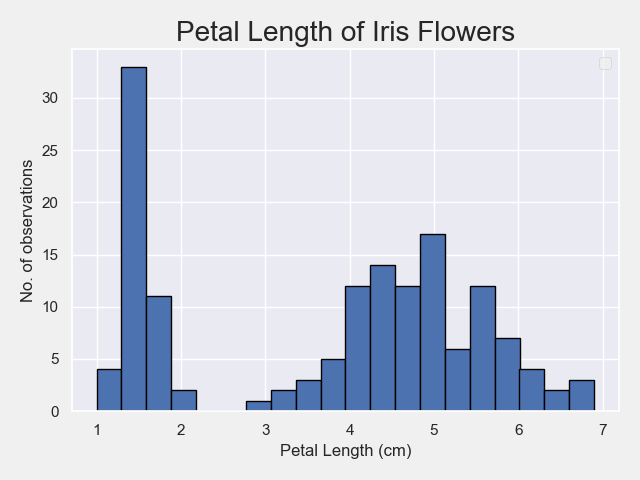
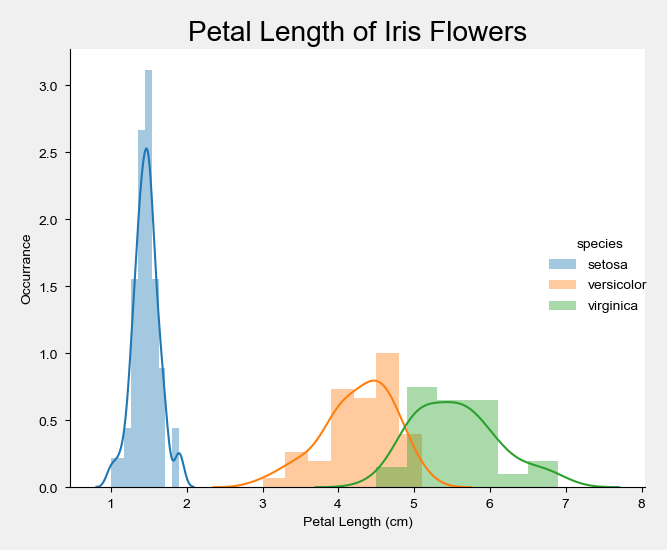
Scatter plots added to 'analysis.py', scatter plots and histogram format edited.

diff --git a/draft_analysis.py b/draft_analysis.py
@@ -9,84 +9,115 @@ import pandas as pd
 import numpy as np
 import seaborn as sns
 df = pd.read_csv('IrisDataset.csv')
-
-
-#-----------------------------------------------------------------------------
-
-# Histogram of Petal Length (all species)
-# Create hist with bin measures se t to bins list.
-PL = np.array( df['petal_length'])
-sns.set()
-plt.hist(PL, bins = 20, edgecolor='black')
-# Set the histrogram style.
-plt.style.use('fivethirtyeight')
-# Format the histogram as appropriate.
-plt.title("Petal Length of Iris Flowers")
-plt.xlabel('Petal Length (cm)')
-plt.ylabel('No. of observations')
-plt.tight_layout()
-# Mark out a median value line.
-# median_PL = 4.35
-# color = '#fc4f30'
-# plt.axvline(median_PL, color=color, label='Median Petal Length', linewidth=2.5)
-plt.savefig("Hpetal_length.png")
-plt.clf
-plt.show()
 #------------------------------------------------------------------------------
 
-# Histogram of Petal Width (all species)
+# Histogram of Petal Length (all species)
 # Create hist with bin measures set to bins list.
-bins = [0, 0.25, 0.5, 0.75, 1, 1.25, 1.5, 1.75, 2, 2.25, 2.5, 2.75]
-plt.hist(df["petal_width"], bins = bins, edgecolor='black')
+sns.FacetGrid(df,hue="species",height=5.5).map(sns.distplot,"petal_length").add_legend()
+plt.xlabel("Petal Length (cm)")
+plt.ylabel("Occurrance")
 # Format histogram style.
+sns.set_style("darkgrid")
 plt.style.use('fivethirtyeight')
-plt.title("Petal Width of Iris Flowers")
-plt.xlabel('Petal Width (cm)')
-plt.ylabel('No. of observations')
+plt.title("Petal Length of Iris Flowers")
 plt.tight_layout()
-# Marking out a median line.
-# median_PW = 1.3
-# color = '#fc4f30' 
-# plt.axvline(median_PW, color=color, label='Median Petal Width', linewidth=4)
-plt.savefig("Hpetal_width.png")
+plt.savefig("Hpetal_length.png")
 plt.clf
 plt.show()
 #-------------------------------------------------------------------------------
 
-# Histogram of Petal Length (all species)
-# Create hist with bin measures set to bins list.
-bins = [4.25, 4.5, 4.75, 5, 5.25, 5.5, 5.75, 6, 6.25, 6.5, 6.75, 7, 7.25, 7.5, 7.75, 8]
-plt.hist(df["sepal_length"], bins = bins, color='green', edgecolor='black')
+# Histogram of Petal Width (all species)
+sns.FacetGrid(df,hue="species",height=5.5).map(sns.distplot,"petal_width").add_legend()
+plt.xlabel("Petal Width (cm)")
+plt.ylabel("Occurrance")
 # Format histogram.
+sns.set_style("darkgrid")
 plt.style.use('fivethirtyeight')
-plt.title("Sepal Length of Iris Flowers")
-plt.xlabel('Sepal Length (cm)')
-plt.ylabel('No. of observations')
+plt.title("Petal Width of Iris Flowers")
 plt.tight_layout()
-# Mark out a median value line.
-# median_SL = 5.8
-# color = '#fc4f30' 
-# plt.axvline(median_SL, color=color, label='Median Sepal Length', linewidth=4)
-plt.savefig("Hsepal_length.png")
+plt.savefig("Hpetal_width.png")
 plt.clf
 plt.show()
 #--------------------------------------------------------------------------------
 
+# Histogram of Sepal Length (all species)
+# Create hist with bin measures set to bins list.
+sns.FacetGrid(df,hue="species",height=5.5).map(sns.distplot,"sepal_length").add_legend()
+plt.xlabel("Sepal Length (cm)")
+plt.ylabel("Occurrance")
+# Format histogram style.
+sns.set_style("darkgrid")
+plt.style.use('fivethirtyeight')
+plt.title("Sepal Length of Iris Flowers")
+plt.tight_layout()
+plt.savefig("Hsepal_length.png")
+plt.clf
+plt.show()
+#---------------------------------------------------------------------------------
 # Histogram of Sepal Width (all species)
 # Create hist with bin measures set to bins list.
-bins = [2, 2.25, 2.5, 2.75, 3, 3.25, 3.5, 3.75, 4, 4.25, 4.5]
-plt.hist(df["sepal_width"], bins = bins, color='purple', edgecolor='black')
+sns.FacetGrid(df,hue="species",height=5.5).map(sns.distplot,"sepal_width").add_legend()
+plt.xlabel("Sepal Width (cm)")
+plt.ylabel("Occurrance")
 # Format histogram style.
+sns.set_style("darkgrid")
 plt.style.use('fivethirtyeight')
 plt.title("Sepal Width of Iris Flowers")
-plt.xlabel('Sepal Width (cm)')
-plt.ylabel('No. of observations')
 plt.tight_layout()
-# Marking out a median value line.
-# median_SW = 3
-# color = '#fc4f30' 
-# plt.axvline(median_SW, color=color, label='Median Sepal Width', linewidth=4)
 plt.savefig("Hsepal_width.png")
 plt.clf
 plt.show()
 #---------------------------------------------------------------------------------
+#  This program will create a scattergram of (a)Iris setosa, (b)Iris virginica 
+# and (c)Iris versicolor.
+iris = pd.read_csv('IrisDataset.csv')
+# Petal Length Vs Petal Width
+sns.set_style("darkgrid")
+df = sns.scatterplot(x="petal_length", y="petal_width", hue="species", data=iris)
+plt.title("Iris Flowers: Petal Length Vs Petal Width")
+plt.savefig("scatter1.png")
+plt.clf
+plt.show()
+#--------------------------------------------------------------------------------
+# Petal Length Vs Sepal Length
+sns.set_style("darkgrid")
+df = sns.scatterplot(x="sepal_length", y="petal_length", hue="species", data=iris)
+plt.title("Iris Flowers: Sepal Length Vs Petal Length")
+plt.savefig("scatter2.png")
+plt.clf
+plt.show()
+#-------------------------------------------------------------------------------
+# Petal Length Vs Sepal Width 
+sns.set_style("darkgrid")
+df = sns.scatterplot(x="sepal_width", y="petal_length", hue="species", data=iris)
+plt.title("Iris Flowers: Sepal Width Vs Petal Length")
+plt.savefig("scatter3.png")
+plt.clf
+plt.show()
+#--------------------------------------------------------------------------------
+# Petal Width Vs Sepal Length
+sns.set_style("darkgrid")
+df = sns.scatterplot(x="sepal_length", y="petal_width", hue="species", data=iris)
+plt.title("Iris Flowers: Sepal Length Vs Petal Width")
+plt.savefig("scatter4.png")
+plt.clf
+plt.show()
+#--------------------------------------------------------------------------------
+# Petal Width Vs Sepal Width
+sns.set_style("darkgrid")
+df = sns.scatterplot(x="sepal_width", y="petal_width", hue="species", data=iris)
+plt.title("Iris Flowers: Sepal Width Vs Petal Width")
+plt.savefig("scatter5.png")
+plt.clf
+plt.show()
+#-------------------------------------------------------------------------------
+# Sepal Length Vs Sepal Width
+sns.set_style("darkgrid")
+df = sns.scatterplot(x="sepal_length", y="sepal_width", hue="species", data=iris)
+plt.title("Iris Flowers: Sepal Length Vs Sepal Width")
+plt.savefig("scatter6.png")
+plt.clf
+plt.show()
+# Looking at the scatter plot it's noted that setosa can be distinguised from the other species
+# by using linear separation.
+# #------------------------------------------------------------------------------

diff --git a/dddd.py b/dddd.py
@@ -1,0 +1,60 @@
+# Peter Finnerty - Project - Scattergrams.
+
+# Output a scattergram of each variable to png files.
+#  This program will create a scattergram of (a)Iris setosa, (b)Iris virginica 
+# and (c)Iris versicolor.
+
+# I must create a separate scattergram for each specias, this will feature 4 variables.
+# Sepal Length versus Sepal Width
+
+# 1.
+#------------------------------------------------------------------------------
+import matplotlib.pyplot as plt
+import pandas as pd
+import seaborn as sns
+import numpy as np
+df = pd.read_csv('IrisDataset.csv')
+iris = df
+#------------------------------------------------------------------------------
+# Petal Length Vs Petal Width
+
+
+class Scatter():
+    df = pd.read_csv('IrisDataset.csv')
+    a = df["petal_length"] 
+    b = df["petal_width"]
+    c = df["sepal_length"] 
+    d = df["sepal_width"]
+    f = iris
+     
+    def __init__(self, a, b, c, d, f):
+        self.a = a
+        self.b = b
+        self.c = c
+        self.d = d
+        self.f = iris
+    
+    def hue(self):
+        return sns.scatterplot(hue = "species")
+
+    def graph(self):
+        return sns.scatterplot(df[self.a,], df[self.b], df=iris)
+
+PL_scat = graph(df["petal_length"], df["petal_width"], hue = "species", df = iris)
+
+
+
+# df1 = sns.scatterplot(x="petal_length", y="petal_width", hue="species", data=iris)
+# df2 = sns.scatterplot(x="sepal_length", y="petal_length", hue="species", data=iris)
+# df3 = sns.scatterplot(x="sepal_width", y="petal_length", hue="species", data=iris)
+# df4 = sns.scatterplot(x="sepal_length", y="petal_width", hue="species", data=iris)
+# df5 = sns.scatterplot(x="sepal_width", y="petal_width", hue="species", data=iris)
+# df6 = sns.scatterplot(x="sepal_length", y="sepal_width", hue="species", data=iris)
+# sns.set_style("darkgrid")
+# plt.title("Iris Flowers: Petal Length Vs Petal Width")
+# plt.title("Iris Flowers: Sepal Length Vs Petal Length")
+# plt.title("Iris Flowers: Sepal Width Vs Petal Length")
+# plt.title("Iris Flowers: Sepal Length Vs Petal Width")
+# plt.title("Iris Flowers: Sepal Width Vs Petal Width")
+# plt.title("Iris Flowers: Sepal Length Vs Sepal Width")
+# plt.show()
